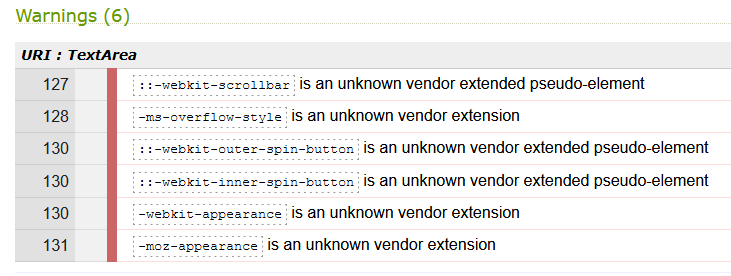
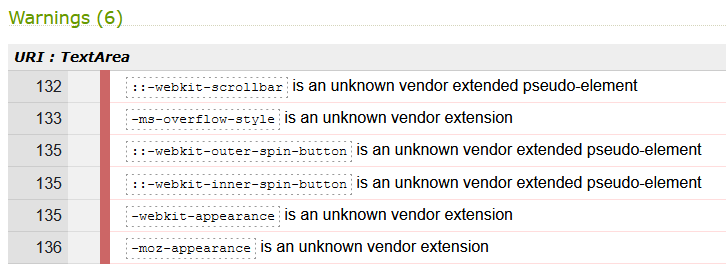
[DOCS] Added JSON testing and addressed some redundant issues

Changed region(s): [[0.0, 0.1765, 1.0, 0.9706], [0.0, 0.0294, 0.1818, 0.1176]]

diff --git a/supplies/templates/supplies/supplies.html b/supplies/templates/supplies/supplies.html
@@ -92,86 +92,84 @@
                         <!-- Supply Info -->
                         <div class="card-title w-100 highlight">{{ supply.name }}</div>
                         <p class="card-text altFont">{{ supply.description }}</p>
-                        <div class="card-buttons">
-                            <p class="card-text altFont"> <span class="highlight">Size:</span> {{ supply.size }}</p>
-                            <p class="card-text altFont"> <span class="highlight">Brand:</span> {{ supply.brand }}</p>
-                            <p class="card-text text-price highlight">Price: £{{ supply.price }}</p>
-                            <!-- Buttons -->
-                            {% if request.user.is_authenticated %}
-                                <!-- Add to Crate Button -->
-                                <form class="form" action="{% url 'add_to_crate' supply.id %}" method="POST">
-                                    {% csrf_token %}
-                                    <div class="form-row">
-                                        <div class="col-12">
-                                            <p class="highlight">Quantity:</p>
-                                            <div class="form-group w-75 mx-auto mb-1">
-                                                <div class="input-group">
-                                                    <div class="input-group-prepend">
-                                                        <button class="qty-dec btn rounded-0" data-item_id="{{ supply.id }}" id="qty-dec_{{ supply.id }}"><i class="fas fa-minus"></i></button>
-                                                    </div>
-                                                    <input class="form-control qty-input text-center" type="number" name="quantity" value="1" min="1" max="99" data-item_id="{{ supply.id }}" id="id_qty_{{ supply.id }}" required>
-                                                    <div class="input-group-append">
-                                                        <button class="qty-inc btn rounded-0" data-item_id="{{ supply.id }}" id="qty-inc_{{ supply.id }}"><i class="fas fa-plus"></i></button>
-                                                    </div>
+                        <p class="card-text altFont"> <span class="highlight">Size:</span> {{ supply.size }}</p>
+                        <p class="card-text altFont"> <span class="highlight">Brand:</span> {{ supply.brand }}</p>
+                        <p class="card-text text-price highlight">Price: £{{ supply.price }}</p>
+                        <!-- Buttons -->
+                        {% if request.user.is_authenticated %}
+                            <!-- Add to Crate Button -->
+                            <form class="form" action="{% url 'add_to_crate' supply.id %}" method="POST">
+                                {% csrf_token %}
+                                <div class="form-row">
+                                    <div class="col-12">
+                                        <p class="highlight">Quantity:</p>
+                                        <div class="form-group w-75 mx-auto mb-1">
+                                            <div class="input-group">
+                                                <div class="input-group-prepend">
+                                                    <button class="qty-dec btn rounded-0" data-item_id="{{ supply.id }}" id="qty-dec_{{ supply.id }}"><i class="fas fa-minus"></i></button>
+                                                </div>
+                                                <input class="form-control qty-input text-center" type="number" name="quantity" value="1" min="1" max="99" data-item_id="{{ supply.id }}" id="id_qty_{{ supply.id }}" required>
+                                                <div class="input-group-append">
+                                                    <button class="qty-inc btn rounded-0" data-item_id="{{ supply.id }}" id="qty-inc_{{ supply.id }}"><i class="fas fa-plus"></i></button>
                                                 </div>
                                             </div>
                                         </div>
-                                        <div class="col-12"><button type="submit" class="btn btn-lg p-1"><i class="fas fa-box-open"></i> Add to Crate</button></div>
-                                        <input type="hidden" name="redirect_url" value="{{ request.path }}">
                                     </div>
-                                </form>
-                            {% if request.user.is_superuser %}
-                                <!-- Admin buttons -->
-                                <a class="btn solid small mx-1 my-1" href="{% url 'supply_edit' supply.id %}"><i class="fas fa-edit p-1"></i></a>
-                                <!-- Trigger delete modal -->
-                                <a class="btn solid small mx-1 my-1" data-bs-toggle="modal" data-bs-target="#delete-{{ supply.id }}"><i class="fas fa-trash p-1"></i></a>
-                                <!-- Credit for adapted Bootstrap 5 static backdrop Modal: https://getbootstrap.com/docs/5.0/components/modal/ -->
-                                <div class="modal fade" id="delete-{{ supply.id }}" data-bs-backdrop="static" data-bs-keyboard="false" tabindex="-1" aria-labelledby="supply-delete-label-{{ supply.id }}" aria-hidden="true">
-                                    <div class="modal-dialog">
-                                        <div class="modal-content gamerStyle">
-                                            <div class="modal-header">
-                                                <h2 class="modal-title w-100 text-center" id="supply-delete-label-{{ supply.id }}">Delete Supply</h2>
+                                    <div class="col-12"><button type="submit" class="btn btn-lg p-1"><i class="fas fa-box-open"></i> Add to Crate</button></div>
+                                    <input type="hidden" name="redirect_url" value="{{ request.path }}">
+                                </div>
+                            </form>
+                        {% if request.user.is_superuser %}
+                            <!-- Admin buttons -->
+                            <a class="btn solid small mx-1 my-1" href="{% url 'supply_edit' supply.id %}"><i class="fas fa-edit p-1"></i></a>
+                            <!-- Trigger delete modal -->
+                            <a class="btn solid small mx-1 my-1" data-bs-toggle="modal" data-bs-target="#delete-{{ supply.id }}"><i class="fas fa-trash p-1"></i></a>
+                            <!-- Credit for adapted Bootstrap 5 static backdrop Modal: https://getbootstrap.com/docs/5.0/components/modal/ -->
+                            <div class="modal fade" id="delete-{{ supply.id }}" data-bs-backdrop="static" data-bs-keyboard="false" tabindex="-1" aria-labelledby="supply-delete-label-{{ supply.id }}" aria-hidden="true">
+                                <div class="modal-dialog">
+                                    <div class="modal-content gamerStyle">
+                                        <div class="modal-header">
+                                            <h2 class="modal-title w-100 text-center" id="supply-delete-label-{{ supply.id }}">Delete Supply</h2>
+                                        </div>
+                                        <div class="modal-body">
+                                            <p class="altFont">Are you sure you want to delete supply <span class="highlight">{{ supply.name }}</span>?</p>
+                                            <p class="altFont">The contents of the supply are as follows:</p>
+                                            <p class="altFont"><span class="highlight">Name: </span>{{ supply.name }}</p>
+                                            <div class="w-50 mx-auto">
+                                                {% if supply.image %}
+                                                    <img src="{{ supply.image.url }}" class="img-fluid rounded supply-img my-1" alt="{{ supply.name }}">
+                                                {% else %}
+                                                    <img src="{{ MEDIA_URL }}noimage.png" class="img-fluid rounded supply-img my-1" alt="{{ supply.name }}">
+                                                {% endif %}
                                             </div>
-                                            <div class="modal-body">
-                                                <p class="altFont">Are you sure you want to delete supply <span class="highlight">{{ supply.name }}</span>?</p>
-                                                <p class="altFont">The contents of the supply are as follows:</p>
-                                                <p class="altFont"><span class="highlight">Name: </span>{{ supply.name }}</p>
-                                                <div class="w-50 mx-auto">
-                                                    {% if supply.image %}
-                                                        <img src="{{ supply.image.url }}" class="img-fluid rounded supply-img my-1" alt="{{ supply.name }}">
-                                                    {% else %}
-                                                        <img src="{{ MEDIA_URL }}noimage.png" class="img-fluid rounded supply-img my-1" alt="{{ supply.name }}">
-                                                    {% endif %}
+                                            <p class="altFont"><span class="highlight">Description: </span>{{ supply.description }}</p>
+                                            <p class="altFont"><span class="highlight">Size: </span>{{ supply.size }}</p>
+                                            <p class="altFont"><span class="highlight">Brand: </span>{{ supply.brand }}</p>
+                                            <p class="altFont"><span class="highlight">Price: </span>£{{ supply.price }}</p>
+                                        </div>
+                                        <div class="modal-footer">
+                                            <div class="row w-100">
+                                                <!-- Modal buttons -->
+                                                <div class="col-7 text-start">
+                                                    <a href="{% url 'supply_delete' supply.id %}" class="btn my-2">Delete <span class="d-none d-sm-inline">Supply</span></a>
                                                 </div>
-                                                <p class="altFont"><span class="highlight">Description: </span>{{ supply.description }}</p>
-                                                <p class="altFont"><span class="highlight">Size: </span>{{ supply.size }}</p>
-                                                <p class="altFont"><span class="highlight">Brand: </span>{{ supply.brand }}</p>
-                                                <p class="altFont"><span class="highlight">Price: </span>£{{ supply.price }}</p>
-                                            </div>
-                                            <div class="modal-footer">
-                                                <div class="row w-100">
-                                                    <!-- Modal buttons -->
-                                                    <div class="col-7 text-start">
-                                                        <a href="{% url 'supply_delete' supply.id %}" class="btn my-2">Delete <span class="d-none d-sm-inline">Supply</span></a>
-                                                    </div>
-                                                    <div class="col-5 text-end">
-                                                        <a data-bs-dismiss="modal" class="btn my-2">Cancel</a>
-                                                    </div>
+                                                <div class="col-5 text-end">
+                                                    <a data-bs-dismiss="modal" class="btn my-2">Cancel</a>
                                                 </div>
                                             </div>
                                         </div>
                                     </div>
                                 </div>
-                            {% endif %}
-                            {% else %}
-                                <!-- Login/Sign Up Buttons -->
-                                <div class="row">
-                                    <div class="col">
-                                        <p class="my-0 small altFont"><a class="highlight" href="{% url 'account_signup' %}">Register</a> or <a class="highlight" href="{% url 'account_login' %}">Login</a> to add your crate</p>          
-                                    </div>
+                            </div>
+                        {% endif %}
+                        {% else %}
+                            <!-- Login/Sign Up Buttons -->
+                            <div class="row">
+                                <div class="col">
+                                    <p class="my-0 small altFont"><a class="highlight" href="{% url 'account_signup' %}">Register</a> or <a class="highlight" href="{% url 'account_login' %}">Login</a> to add your crate</p>          
                                 </div>
-                            {% endif %}
-                        </div>
+                            </div>
+                        {% endif %}
                     </div>
                 </div>
             {% endfor %}

diff --git a/static/css/base.css b/static/css/base.css
@@ -4,7 +4,6 @@ html, body { max-width: 100%; overflow-x: hidden; }
 
 /* Core Styling */
 .gamerStyle { background-color: #4169e1; border-bottom: 10px solid #ffd700; border-top: 10px solid #ffd700; }
-
 .form-supply-manage label,
 .highlight { color: #ffd700; text-shadow: 2px 2px #141414; }
 .altFont { font-family: 'Salsa', cursive; }
@@ -43,12 +42,12 @@ p { color: #eee6e6; margin-bottom: 0; }
 
 /* Nav */
 .logo { height: 8vh; }
-.text-menu, .text-bag { color: #ffd700; }
+.text-menu, .text-crate { color: #ffd700; }
 .navbar { background-color: #4169e1; box-shadow: 0 5px 10px #141414; }
 .navbar-nav { text-align: right; padding-right: 5vw; }
 .navbar-toggler { padding: 0; font-size: 1rem; }
 .navbar-toggler:focus { outline: none; box-shadow: none; }
-.navbar-toggler i, .nav-link, .text-bag { color: #ffd700; }
+.navbar-toggler i, .nav-link, .text-crate { color: #ffd700; }
 .navbar-brand { padding: 0; }
 .nav-link:hover, .nav-link:active, .nav-link:focus, .btn:hover, .btn:active, .btn:focus { color: #141414; }
 .nav-link.active, .nav-link:hover, .nav-tabs .nav-link, .nav-tabs .nav-link.active, .nav-tabs .nav-link:hover { border: none; width: 100%; }
@@ -135,8 +134,6 @@ ul { padding: 0 1rem 0 0; list-style: none; text-align: right; }
 /* Credit for w3schools: Remove arrows/spinners on Chrome, Safari, Opera, Edge and Firefox */
 input::-webkit-outer-spin-button, input::-webkit-inner-spin-button { -webkit-appearance: none; margin: 0; }
 input[type=number] { -moz-appearance: textfield; }
-
-/* .card-buttons { position: absolute; bottom: 1%; } */
 
 /* -------------------------------- Media Queries */
 /* For medium screens */

diff --git a/templates/base.html b/templates/base.html
@@ -58,8 +58,8 @@
                     {% if request.user.is_authenticated %}
                         <a class="header-links p-0" href="{% url 'view_crate' %}">
                             <div class="text-center">
-                                <i class="fas fa-shopping-bag"></i>
-                                <p class="my-0 text-bag">{% if total %}£{{ total|floatformat:2 }}{% else %}£0.00{% endif %}</p>
+                                <i class="fas fa-box"></i>
+                                <p class="my-0 text-crate">{% if total %}£{{ total|floatformat:2 }}{% else %}£0.00{% endif %}</p>
                             </div>
                         </a>
                     {% endif %}

diff --git a/home/forms.py b/home/forms.py
@@ -70,9 +70,6 @@ class FormReview(forms.ModelForm):
                 self.fields[field].widget.attrs[
                     "minlength"
                 ] = '10'
-                self.fields[field].widget.attrs[
-                    "pattern"
-                ] = '(^[a-zA-Z_]+( [a-zA-Z_]+)*$'
 
         # Remove labels auto generated by form
         self.fields['review'].label = False

diff --git a/README.md b/README.md
@@ -126,7 +126,7 @@ Using a combination of [coolors.co](https://coolors.co/) and [Accessible Color G
 - ![#eee6e6](https://via.placeholder.com/15/eee6e6/000000?text=+) `#eee6e6`: Isabaline
 - ![#141414](https://via.placeholder.com/15/141414/000000?text=+) `#141414`: Eerie Black
 
-I tested my colour contrasts against the AA guidelines using [this tool](https://learnui.design/tools/accessible-color-generator.html) as mentioned in my technologies section. I have included a picture below as proof:
+I tested my colour contrasts against the AA guidelines using [this tool](https://learnui.design/tools/accessible-color-generator.html) as mentioned in my technologies section. This was done for the accessibility section of the distinction performance. I have included a picture below as proof:
 
 ![Accessible Colours](docs/images/aaproof.png)
 
@@ -261,7 +261,7 @@ UserProfile Model
 | default_town_or_city | CharField | max_length=50, null=True, blank=True |
 | default_county | CharField | max_length=50, null=True, blank=True |
 | default_postcode | CharField | max_length=20, null=True, blank=True |
-| default_country = | CountryField | blank_label="Country", null=True, blank=True |
+| default_country | CountryField | blank_label="Country", null=True, blank=True |
 
 **Reviews App:**
 
@@ -272,6 +272,14 @@ Review Model (Custom model #2 for Distinction performance)
 | review | TextField | null=True, blank=False |
 | added_by | ForeignKey | User, on_delete=models.CASCADE |
 | rating | IntegerField | default=0, validators=[MinValueValidator(1),MaxValueValidator(5)] |
+
++ **Extra Notes**: As per the assessment handbook 2020 and project requirements I have included two custom Django models outside of those created in the course.
+    + This includes:
+        + Review Model
+        + Coupon Model
+    + For both of these models I have aimed to include as much functionality as possible given my Django knowledge and time constraints.
+        + This includes CRUD functionality as well as internal logic.
+    + This was done as I am aiming for a distinction performance as I wished to showcase my knowledge and understanding of the MVC pattern in a full stack web application implementation.
 
 #### [Back to top](#contents)
 
@@ -474,8 +482,9 @@ Included in the **Security Features** are:
     + Checkout Success (also requires you to successfully checkout)
     + Logout (Register and Login also hidden)
 
-+ Currently the only security risk I can find is when checking out without "Save Info" checked the information still saves (more details on this in [TESTING.md](TESTING.md)).
-
++ Currently the security risks I have found are listed below (more details on these can be found in Unresolved in [TESTING.md](TESTING.md#unresolved)):
+    + When checking out without "Save Info" checked the information still saves.
+    + If a user obtains another user's order number access could be gained to their information.
 
 ### Features to be added
 

diff --git a/TESTING.md b/TESTING.md
@@ -120,6 +120,14 @@ I used [JSHint](https://jshint.com) to check the javascript files in my project 
             |:------------------:|
             | ![Stripe Elements Validation](docs/images/testing/stripe-elements.png) |
 
+I used [JSONLint](https://jsonlint.com/) to test the two fixture files used to generate the data store.
+
++ Found no errors in either ```categories.json``` or ```supplies.json```.
+
+    | _Category_ | _Supplies_ |
+    |:---------:|:------------:|
+    | (```categories.json```) | (```supplies.json```) |
+    | ![Categories Validation](docs/images/testing/testing-categories.png) | ![Supplies Validation](docs/images/testing/testing-supplies.png) |
 
 I used [PEP8 online](http://pep8online.com/) to test all custom Python code in my project against PEP8 standards.
 
@@ -871,6 +879,14 @@ I tested the appearance and responsiveness of the website across 6 different bro
     + I have tried applying this fix and numerous others which I have found through my investigative process.
         + Everything I have found leads me to believe it is caused somewhere in the webhook handler.
         + As mentioned above and in the README.md credits the full stack frameworks [Boutique Ado](https://github.com/Code-Institute-Solutions/boutique_ado_v1) walkthrough project provided the base for this functionality as I am very inexperienced with it.
-        + Due to insufficient experience with Stripe I have opted to leave this bug as unresolved and to state it here in my testing.
+        + Due to insufficient experience with Stripe I have opted to leave this bug unresolved and state it here in my testing.
+
++ **Checkout Success**:
+    + There is a security issue which I felt needed to be stated in the testing.
+        + If a user obtains an order number that is not associated with their account and uses it to navigate to the checkout success link they will be presented with a checkout summary for the user who the order number belongs to.
+            + It also creates an instance of the order within the malicious user's profile but not within the admin as the webhook is untouched in this instance.
+            + This allows the malicious user to potentially gain another user's details.
+    + To fix this would require considerably more Django experience than I have to check who was the making the specific request as currently it only checks if a user is logged in.
+        + As such I have also opted to leave this bug unresolved and state it here in my testing.
 
 [Contents](#contents)
